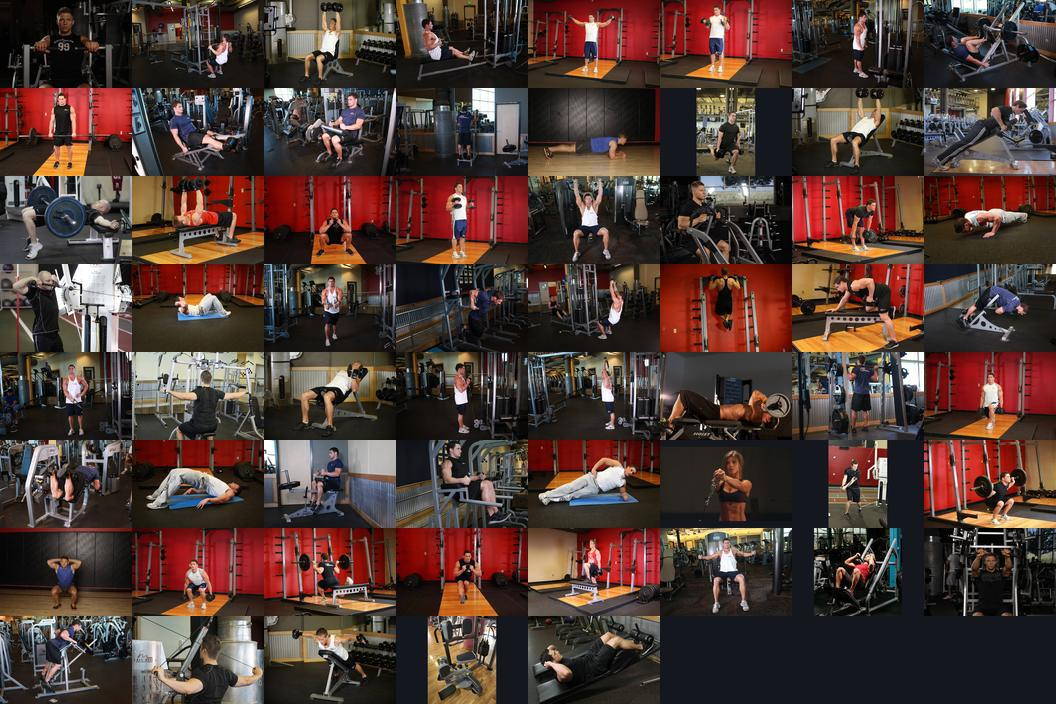
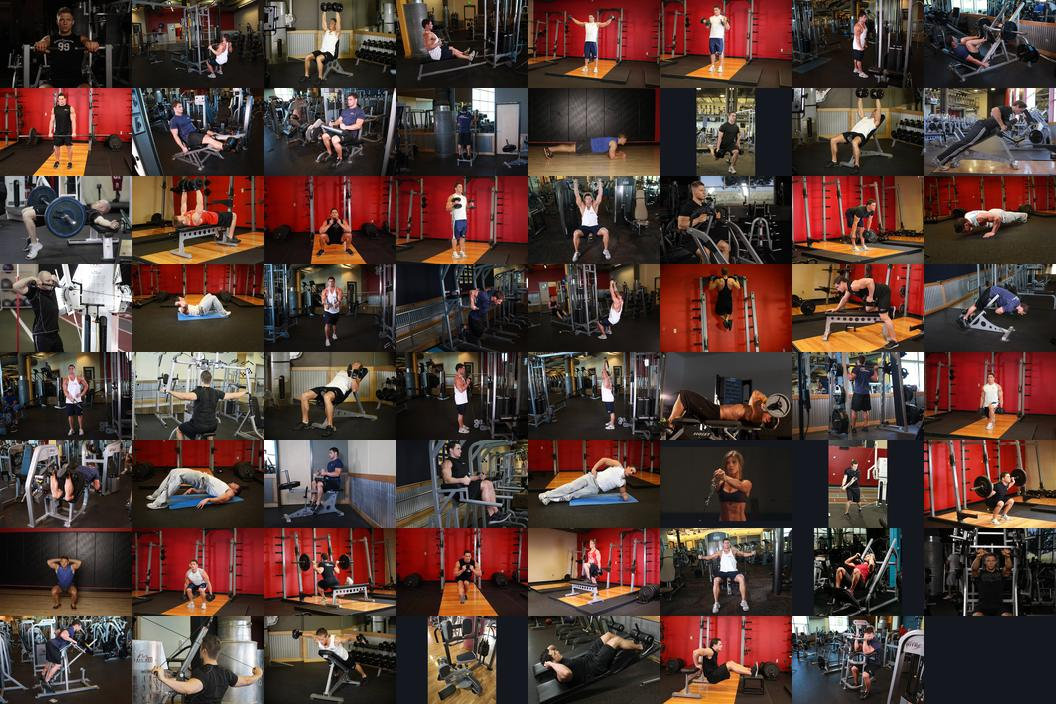
Add bench dip and biceps curl machine, rotary torso stack values
Claude-Session: https://claude.ai/code/session_016A5sXB4K2WFNYa1geVBerE

Changed region(s): [[0.625, 0.875, 0.875, 1.0]]

diff --git a/index.html b/index.html
@@ -343,6 +343,8 @@ button.row{cursor:pointer}
 <script>
 /* the gym's cable stacks are 10 lb plates labelled in kg: 5, 9, 14, 18, 23 ... 91 */
 const CABLE_STACK=Array.from({length:20},(_,n)=>Math.round((n+1)*4.5359237));
+/* the rotary torso's stack, read off its plates */
+const ROTARY_STACK=[7,9,14,18,23,30,36,43,50,57,64,70,77,84,91];
 /* ---------- exercise catalog: name, muscles, cue, starting weight, and a two-pose stick figure ---------- */
 const SEAT=[[55,66],[72,66],[72,88]], STAND_LEG=[[60,58],[60,76],[60,92]];
 const EX={
@@ -502,6 +504,12 @@ Object.assign(EX,{
   fig:{f:BENCH,a:{h:[35,57],l:[[[44,61],[66,61]],[[44,61],[52,66],[60,64]],[[66,61],[80,62],[80,88]]],d:[[60,64,3.6]]},b:{h:[35,57],l:[[[44,61],[66,61]],[[44,61],[46,46],[48,31]],[[66,61],[80,62],[80,88]]],d:[[48,31,3.6]]}}},
  decline_crunch:{name:"Decline crunch",mus:"Abs",tip:"Hook your feet under the pads of the decline bench and lie back with your hands across your chest or behind your ears. Curl your shoulders up toward your knees by squeezing your abs, pause, then lean back slowly without letting your head touch the bench. Hold a plate on your chest to make it harder.",start:0,inc:2.5,grp:"core",p:["abs"],s:[],fig:EX.crunch.fig}
 });
+EX.rotary_torso.stack=ROTARY_STACK; EX.rotary_torso.start=14;
+Object.assign(EX,{
+ bench_dip:{name:"Bench dip",mus:"Triceps, chest, front shoulders",tip:"Sit on the edge of a bench with your hands beside your hips, fingers forward, and walk your feet out. Slide your hips off the bench and bend your elbows to lower yourself toward the floor until your upper arms are about level, then press back up. Bend your knees to make it easier, or straighten your legs to make it harder. Stop if your shoulders complain. Leave the weight at 0, or log a plate on your lap.",start:0,inc:5,grp:"triceps",p:["triceps"],s:["chest","delts"],
+  fig:{f:[[[40,58],[64,58]],[[44,58],[44,92]],[[60,58],[60,92]],[[10,94],[104,94]]],a:{h:[64,22],l:[[[64,34],[64,58]],[[64,34],[66,46],[62,58]],[[64,58],[82,62],[96,92]]],d:[]},b:{h:[68,38],l:[[[68,50],[68,74]],[[68,50],[58,52],[62,58]],[[68,74],[84,72],[96,92]]],d:[]}}},
+ arm_curl_machine:{name:"Biceps curl machine",mus:"Biceps",tip:"Set the seat so your upper arms rest flat on the pad with your elbows lined up with the machine's pivot. Curl the handles up toward your shoulders, squeeze, then lower slowly until your arms are almost straight.",start:15,inc:5,grp:"biceps",p:["biceps"],s:[],fig:EX.incline_curl.fig}
+});
 EX.machine_row.name="Seated row machine";
 EX.machine_row.tip="Sit with your chest against the pad. Pull the handles back until your elbows pass your sides, squeeze your shoulder blades, then reach forward again. The wide, horizontal handles with your elbows out work your upper back more. The narrow handles with your elbows tucked work your lats more.";
 EX.back_extension.name="45° back extension";
@@ -616,11 +624,12 @@ const fmtW=w=>(Math.round(w*100)/100).toString();
 /* half kilos read as a little ½ instead of ".5", so 12.5 never needs more room than 12 */
 const fmtH=w=>{const r=Math.round(w*100)/100, i=Math.trunc(r); return Math.abs(r-i-.5)<1e-9?(i?i:"")+"½":String(r)};
 const fmtSet=(x,v)=>x.timed?v.r+"s":fmtH(v.w)+"×"+v.r;
-function stackStep(w,dir){
-  if(dir>0){const v=CABLE_STACK.find(v=>v>w+.01); return v!=null?v:Math.round(w+4.5)}
-  const below=CABLE_STACK.filter(v=>v<w-.01); return below.length?below[below.length-1]:0;
+const stackOf=x=>x.stack==="cable"?CABLE_STACK:Array.isArray(x.stack)?x.stack:null;
+function stackStep(st,w,dir){
+  if(dir>0){const v=st.find(v=>v>w+.01); return v!=null?v:Math.round(w+(st[st.length-1]-st[st.length-2]))}
+  const below=st.filter(v=>v<w-.01); return below.length?below[below.length-1]:0;
 }
-const nextW=(x,w,dir)=>x.stack==="cable"?stackStep(w,dir):Math.max(0,Math.round((w+dir*x.inc)*100)/100);
+const nextW=(x,w,dir)=>stackOf(x)?stackStep(stackOf(x),w,dir):Math.max(0,Math.round((w+dir*x.inc)*100)/100);
 const e1=(v,x)=>x.timed||!v.w?v.r:v.w*(1+v.r/30);
 
 function newSession(day){day=Math.min(day,PROGRAM.length-1);return {id:null,day,pname:PROGRAM[day].name,plan:clone(PROGRAM[day].ex),start:null,end:null,log:{},prs:0,updatedAt:0}}
@@ -685,7 +694,7 @@ function figInner(fig,t){
     `<circle class="hd" cx="${h[0].toFixed(1)}" cy="${h[1].toFixed(1)}" r="7.5"/>`+
     d.map(c=>`<circle class="pp" cx="${c[0].toFixed(1)}" cy="${c[1].toFixed(1)}" r="${c[2]}"/>`).join("");
 }
-const PHOTO={"chest_press":0,"lat_pulldown":1,"shoulder_press":2,"seated_row":3,"lateral_raise":4,"curl":5,"pushdown":6,"leg_press":7,"rdl":8,"leg_ext":9,"leg_curl":10,"calf_raise":11,"plank":12,"split_squat":13,"incline_press":14,"cs_row":15,"hip_thrust":16,"db_bench":17,"goblet_squat":18,"hammer_curl":19,"machine_shoulder_press":20,"machine_row":21,"db_rdl":22,"push_up":23,"face_pull":24,"crunch":25,"pec_fly":26,"dip":27,"close_grip_pulldown":28,"pull_up":29,"one_arm_row":30,"back_extension":31,"cable_lateral":32,"reverse_fly":33,"incline_curl":34,"cable_curl":35,"overhead_ext":36,"skull_crusher":37,"smith_squat":38,"reverse_lunge":39,"lying_leg_curl":40,"glute_bridge":41,"seated_calf_raise":42,"hanging_knee_raise":43,"side_plank":44,"pallof_press":45,"woodchop":46,"barbell_squat":47,"bw_squat":48,"db_squat":49,"bulgarian":50,"pistol_squat":51,"step_up":52,"pec_deck":53,"hack_squat":54,"incline_machine_press":55,"tbar_row":56,"reverse_cable_fly":57,"incline_reverse_fly":58,"rotary_torso":59,"decline_crunch":60}; const PROWS=8;
+const PHOTO={"chest_press":0,"lat_pulldown":1,"shoulder_press":2,"seated_row":3,"lateral_raise":4,"curl":5,"pushdown":6,"leg_press":7,"rdl":8,"leg_ext":9,"leg_curl":10,"calf_raise":11,"plank":12,"split_squat":13,"incline_press":14,"cs_row":15,"hip_thrust":16,"db_bench":17,"goblet_squat":18,"hammer_curl":19,"machine_shoulder_press":20,"machine_row":21,"db_rdl":22,"push_up":23,"face_pull":24,"crunch":25,"pec_fly":26,"dip":27,"close_grip_pulldown":28,"pull_up":29,"one_arm_row":30,"back_extension":31,"cable_lateral":32,"reverse_fly":33,"incline_curl":34,"cable_curl":35,"overhead_ext":36,"skull_crusher":37,"smith_squat":38,"reverse_lunge":39,"lying_leg_curl":40,"glute_bridge":41,"seated_calf_raise":42,"hanging_knee_raise":43,"side_plank":44,"pallof_press":45,"woodchop":46,"barbell_squat":47,"bw_squat":48,"db_squat":49,"bulgarian":50,"pistol_squat":51,"step_up":52,"pec_deck":53,"hack_squat":54,"incline_machine_press":55,"tbar_row":56,"reverse_cable_fly":57,"incline_reverse_fly":58,"rotary_torso":59,"decline_crunch":60,"bench_dip":61,"arm_curl_machine":62}; const PROWS=8;
 let PHOTOS=true; /* switched off if the photo files cannot be loaded, so the sketches take over */
 const hasPhoto=id=>PHOTOS&&PHOTO[id]!=null;
 const figSVG=(id,live)=>{
@@ -747,7 +756,7 @@ function render(){
   else if(x.timed) goal=`<div class="goal">Last time <b>${t.ref.r} sec</b>. Hold for <b>${t.r}</b> today.</div>`;
   else if(t.up) goal=`<div class="goal">You hit ${x.hi} reps on every set last time. <b>Go up to ${fmtH(t.w)} kg</b>.</div>`;
   else goal=`<div class="goal">Last time <b>${fmtH(t.ref.w)} kg × ${t.ref.r}</b>. ${t.r>t.ref.r?`Beat it with <b>${t.r}</b> reps.`:`Match it, then add weight next time.`}</div>`;
-  const stepW=x.timed?"":`<div class="step"><label for="inW">kg${x.each?" each hand":x.stack==="cable"?" on the stack":""}</label><button type="button" data-step="w:-1" aria-label="Less weight">−</button><span class="numw"><input id="inW" type="text" inputmode="decimal" autocomplete="off" aria-label="Weight in kg" value="${fmtW(vals.w)}"></span><button type="button" data-step="w:1" aria-label="More weight">+</button></div>`;
+  const stepW=x.timed?"":`<div class="step"><label for="inW">kg${x.each?" each hand":stackOf(x)?" on the stack":""}</label><button type="button" data-step="w:-1" aria-label="Less weight">−</button><span class="numw"><input id="inW" type="text" inputmode="decimal" autocomplete="off" aria-label="Weight in kg" value="${fmtW(vals.w)}"></span><button type="button" data-step="w:1" aria-label="More weight">+</button></div>`;
   const stepR=`<div class="step"><label for="inR">${x.timed?"seconds":"reps"}</label><button type="button" data-step="r:-1" aria-label="Fewer">−</button><input id="inR" type="number" inputmode="numeric" step="1" value="${vals.r}"><button type="button" data-step="r:1" aria-label="More">+</button></div>`;
   const ssTog=tg.multi?`<div class="sstog" role="group" aria-label="Superset">${tg.grp.map(i=>`<button type="button" data-flip="${i}" aria-pressed="${i===cur.e}"><b>${tags[i].tag}</b>${EX[dex[i].id].name}</button>`).join("")}</div><div class="sshint">Swipe the card to flip</div>`:"";
   let h=(editMode?`<div class="goal first editbar"><span>Editing your workout from <b>${dstr(S.start)}</b></span><button type="button" id="editDone">Done</button></div>`:"")+`<section class="focus${tg.multi?" ss":""}">
@@ -1239,7 +1248,7 @@ boot();
 <input type="file" id="importFile" accept="application/json,.json" hidden>
 <script>
 /* ---------- standalone extras: backup, persistent storage, offline ---------- */
-const APP_VERSION="17 Nov 13:15";
+const APP_VERSION="19 Nov 09:36";
 (function(){
   const baseStats=renderStats;
   renderStats=function(){

diff --git a/sw.js b/sw.js
@@ -1,5 +1,5 @@
-const CACHE="lift-buddy-v7";
-const IMGS=["./img/back_extension.jpg","./img/barbell_squat.jpg","./img/bulgarian.jpg","./img/bw_squat.jpg","./img/cable_curl.jpg","./img/cable_lateral.jpg","./img/calf_raise.jpg","./img/chest_press.jpg","./img/close_grip_pulldown.jpg","./img/crunch.jpg","./img/cs_row.jpg","./img/curl.jpg","./img/db_bench.jpg","./img/db_rdl.jpg","./img/db_squat.jpg","./img/decline_crunch.jpg","./img/dip.jpg","./img/face_pull.jpg","./img/glute_bridge.jpg","./img/goblet_squat.jpg","./img/hack_squat.jpg","./img/hammer_curl.jpg","./img/hanging_knee_raise.jpg","./img/hip_thrust.jpg","./img/incline_curl.jpg","./img/incline_machine_press.jpg","./img/incline_press.jpg","./img/incline_reverse_fly.jpg","./img/lat_pulldown.jpg","./img/lateral_raise.jpg","./img/leg_curl.jpg","./img/leg_ext.jpg","./img/leg_press.jpg","./img/lying_leg_curl.jpg","./img/machine_row.jpg","./img/machine_shoulder_press.jpg","./img/one_arm_row.jpg","./img/overhead_ext.jpg","./img/pallof_press.jpg","./img/pec_deck.jpg","./img/pec_fly.jpg","./img/pistol_squat.jpg","./img/plank.jpg","./img/pull_up.jpg","./img/push_up.jpg","./img/pushdown.jpg","./img/rdl.jpg","./img/reverse_cable_fly.jpg","./img/reverse_fly.jpg","./img/reverse_lunge.jpg","./img/rotary_torso.jpg","./img/seated_calf_raise.jpg","./img/seated_row.jpg","./img/shoulder_press.jpg","./img/side_plank.jpg","./img/skull_crusher.jpg","./img/smith_squat.jpg","./img/split_squat.jpg","./img/step_up.jpg","./img/tbar_row.jpg","./img/thumbs.jpg","./img/woodchop.jpg"];
+const CACHE="lift-buddy-v8";
+const IMGS=["./img/arm_curl_machine.jpg","./img/back_extension.jpg","./img/barbell_squat.jpg","./img/bench_dip.jpg","./img/bulgarian.jpg","./img/bw_squat.jpg","./img/cable_curl.jpg","./img/cable_lateral.jpg","./img/calf_raise.jpg","./img/chest_press.jpg","./img/close_grip_pulldown.jpg","./img/crunch.jpg","./img/cs_row.jpg","./img/curl.jpg","./img/db_bench.jpg","./img/db_rdl.jpg","./img/db_squat.jpg","./img/decline_crunch.jpg","./img/dip.jpg","./img/face_pull.jpg","./img/glute_bridge.jpg","./img/goblet_squat.jpg","./img/hack_squat.jpg","./img/hammer_curl.jpg","./img/hanging_knee_raise.jpg","./img/hip_thrust.jpg","./img/incline_curl.jpg","./img/incline_machine_press.jpg","./img/incline_press.jpg","./img/incline_reverse_fly.jpg","./img/lat_pulldown.jpg","./img/lateral_raise.jpg","./img/leg_curl.jpg","./img/leg_ext.jpg","./img/leg_press.jpg","./img/lying_leg_curl.jpg","./img/machine_row.jpg","./img/machine_shoulder_press.jpg","./img/one_arm_row.jpg","./img/overhead_ext.jpg","./img/pallof_press.jpg","./img/pec_deck.jpg","./img/pec_fly.jpg","./img/pistol_squat.jpg","./img/plank.jpg","./img/pull_up.jpg","./img/push_up.jpg","./img/pushdown.jpg","./img/rdl.jpg","./img/reverse_cable_fly.jpg","./img/reverse_fly.jpg","./img/reverse_lunge.jpg","./img/rotary_torso.jpg","./img/seated_calf_raise.jpg","./img/seated_row.jpg","./img/shoulder_press.jpg","./img/side_plank.jpg","./img/skull_crusher.jpg","./img/smith_squat.jpg","./img/split_squat.jpg","./img/step_up.jpg","./img/tbar_row.jpg","./img/thumbs.jpg","./img/woodchop.jpg"];
 const CORE=["./","./index.html","./manifest.webmanifest","./icon-192.png","./icon-512.png","./icon-maskable-512.png","./apple-touch-icon.png"];
 self.addEventListener("install",e=>{e.waitUntil(caches.open(CACHE).then(c=>c.addAll(CORE).then(()=>Promise.all(IMGS.map(u=>c.add(u).catch(()=>{}))))).then(()=>self.skipWaiting()))});
 self.addEventListener("activate",e=>{e.waitUntil(caches.keys().then(ks=>Promise.all(ks.filter(k=>k!==CACHE).map(k=>caches.delete(k)))).then(()=>self.clients.claim()))});
